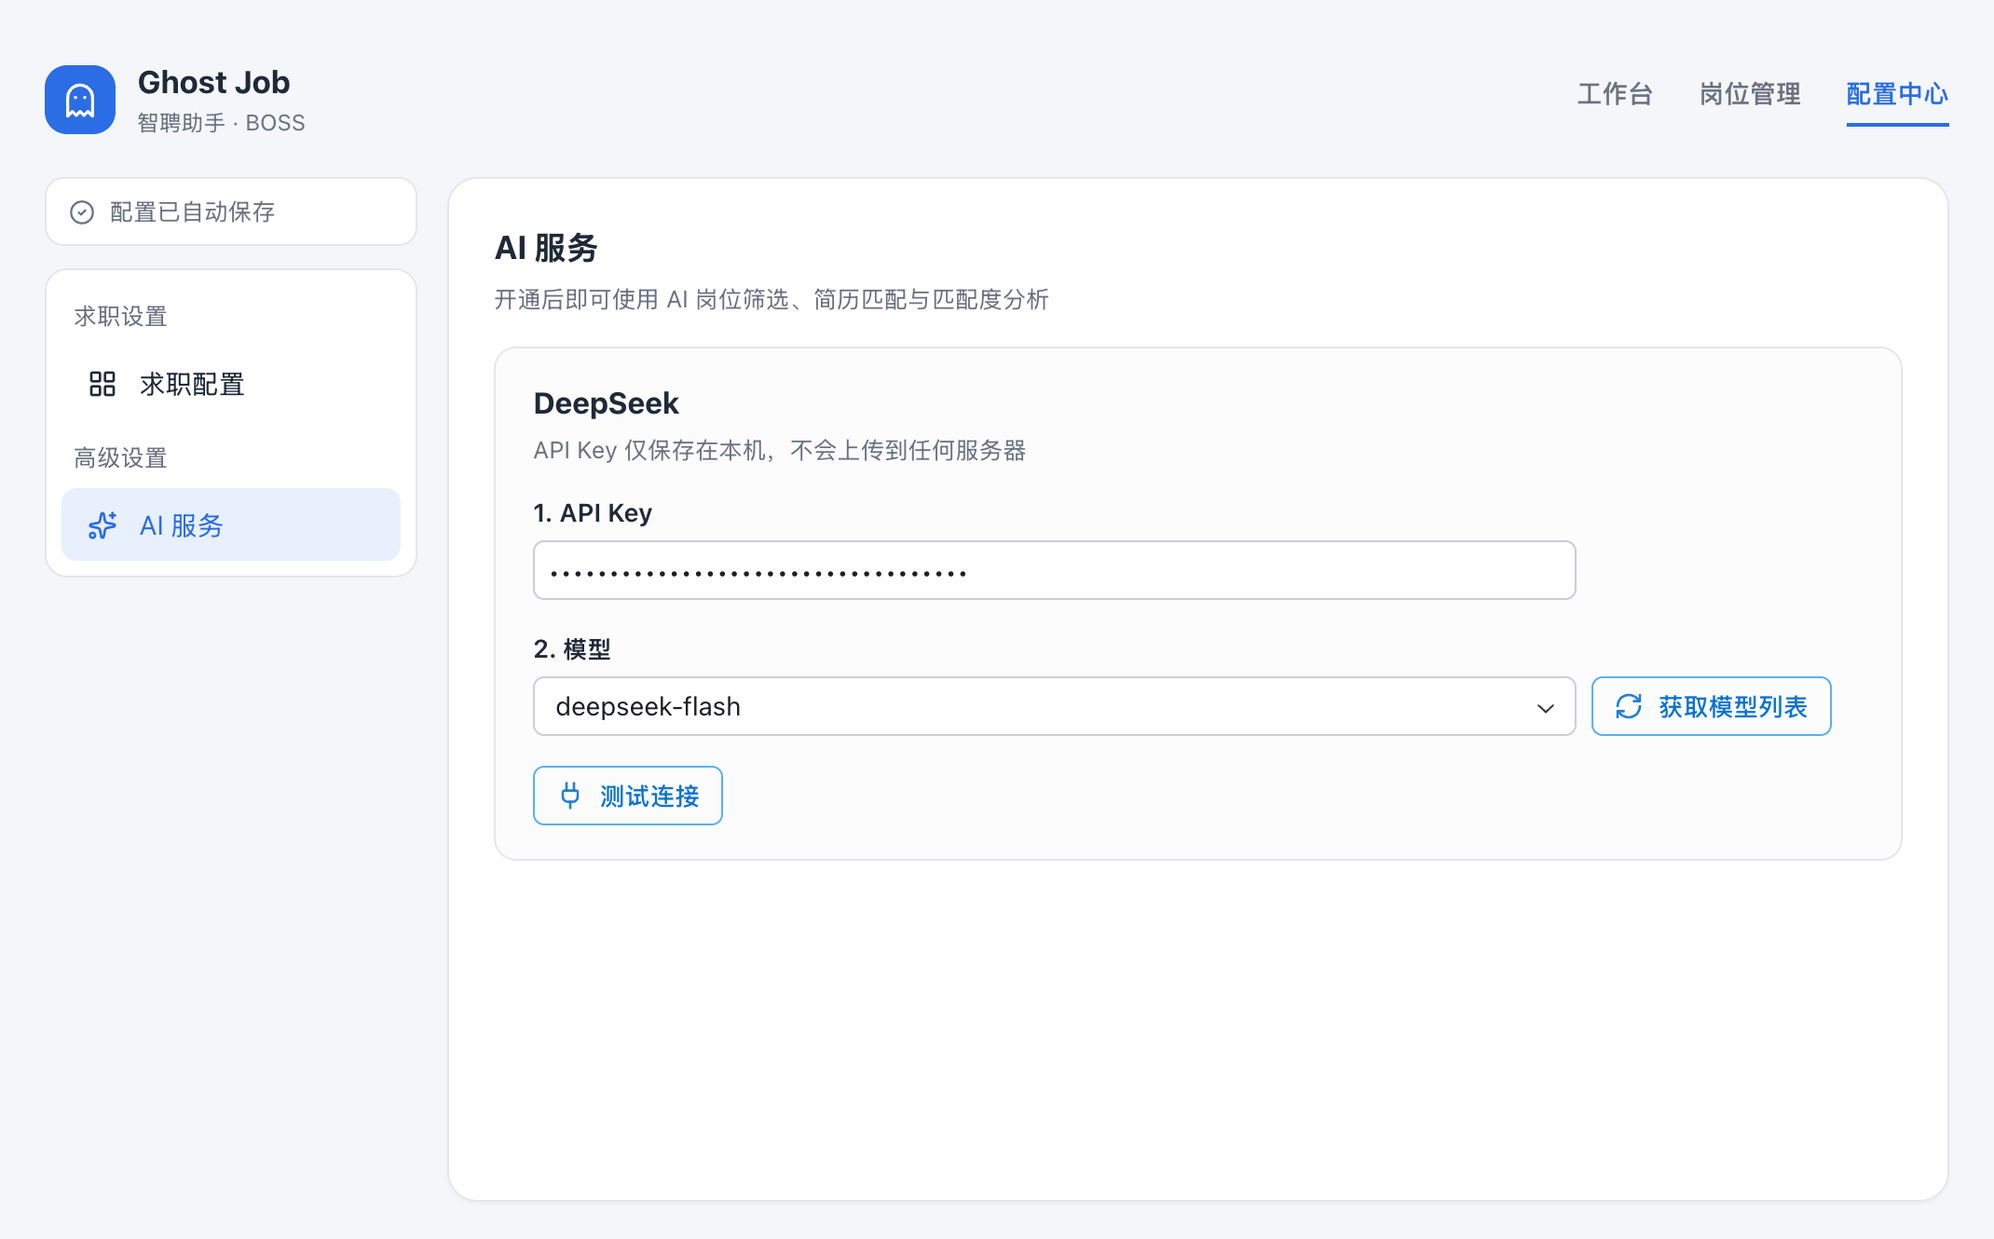
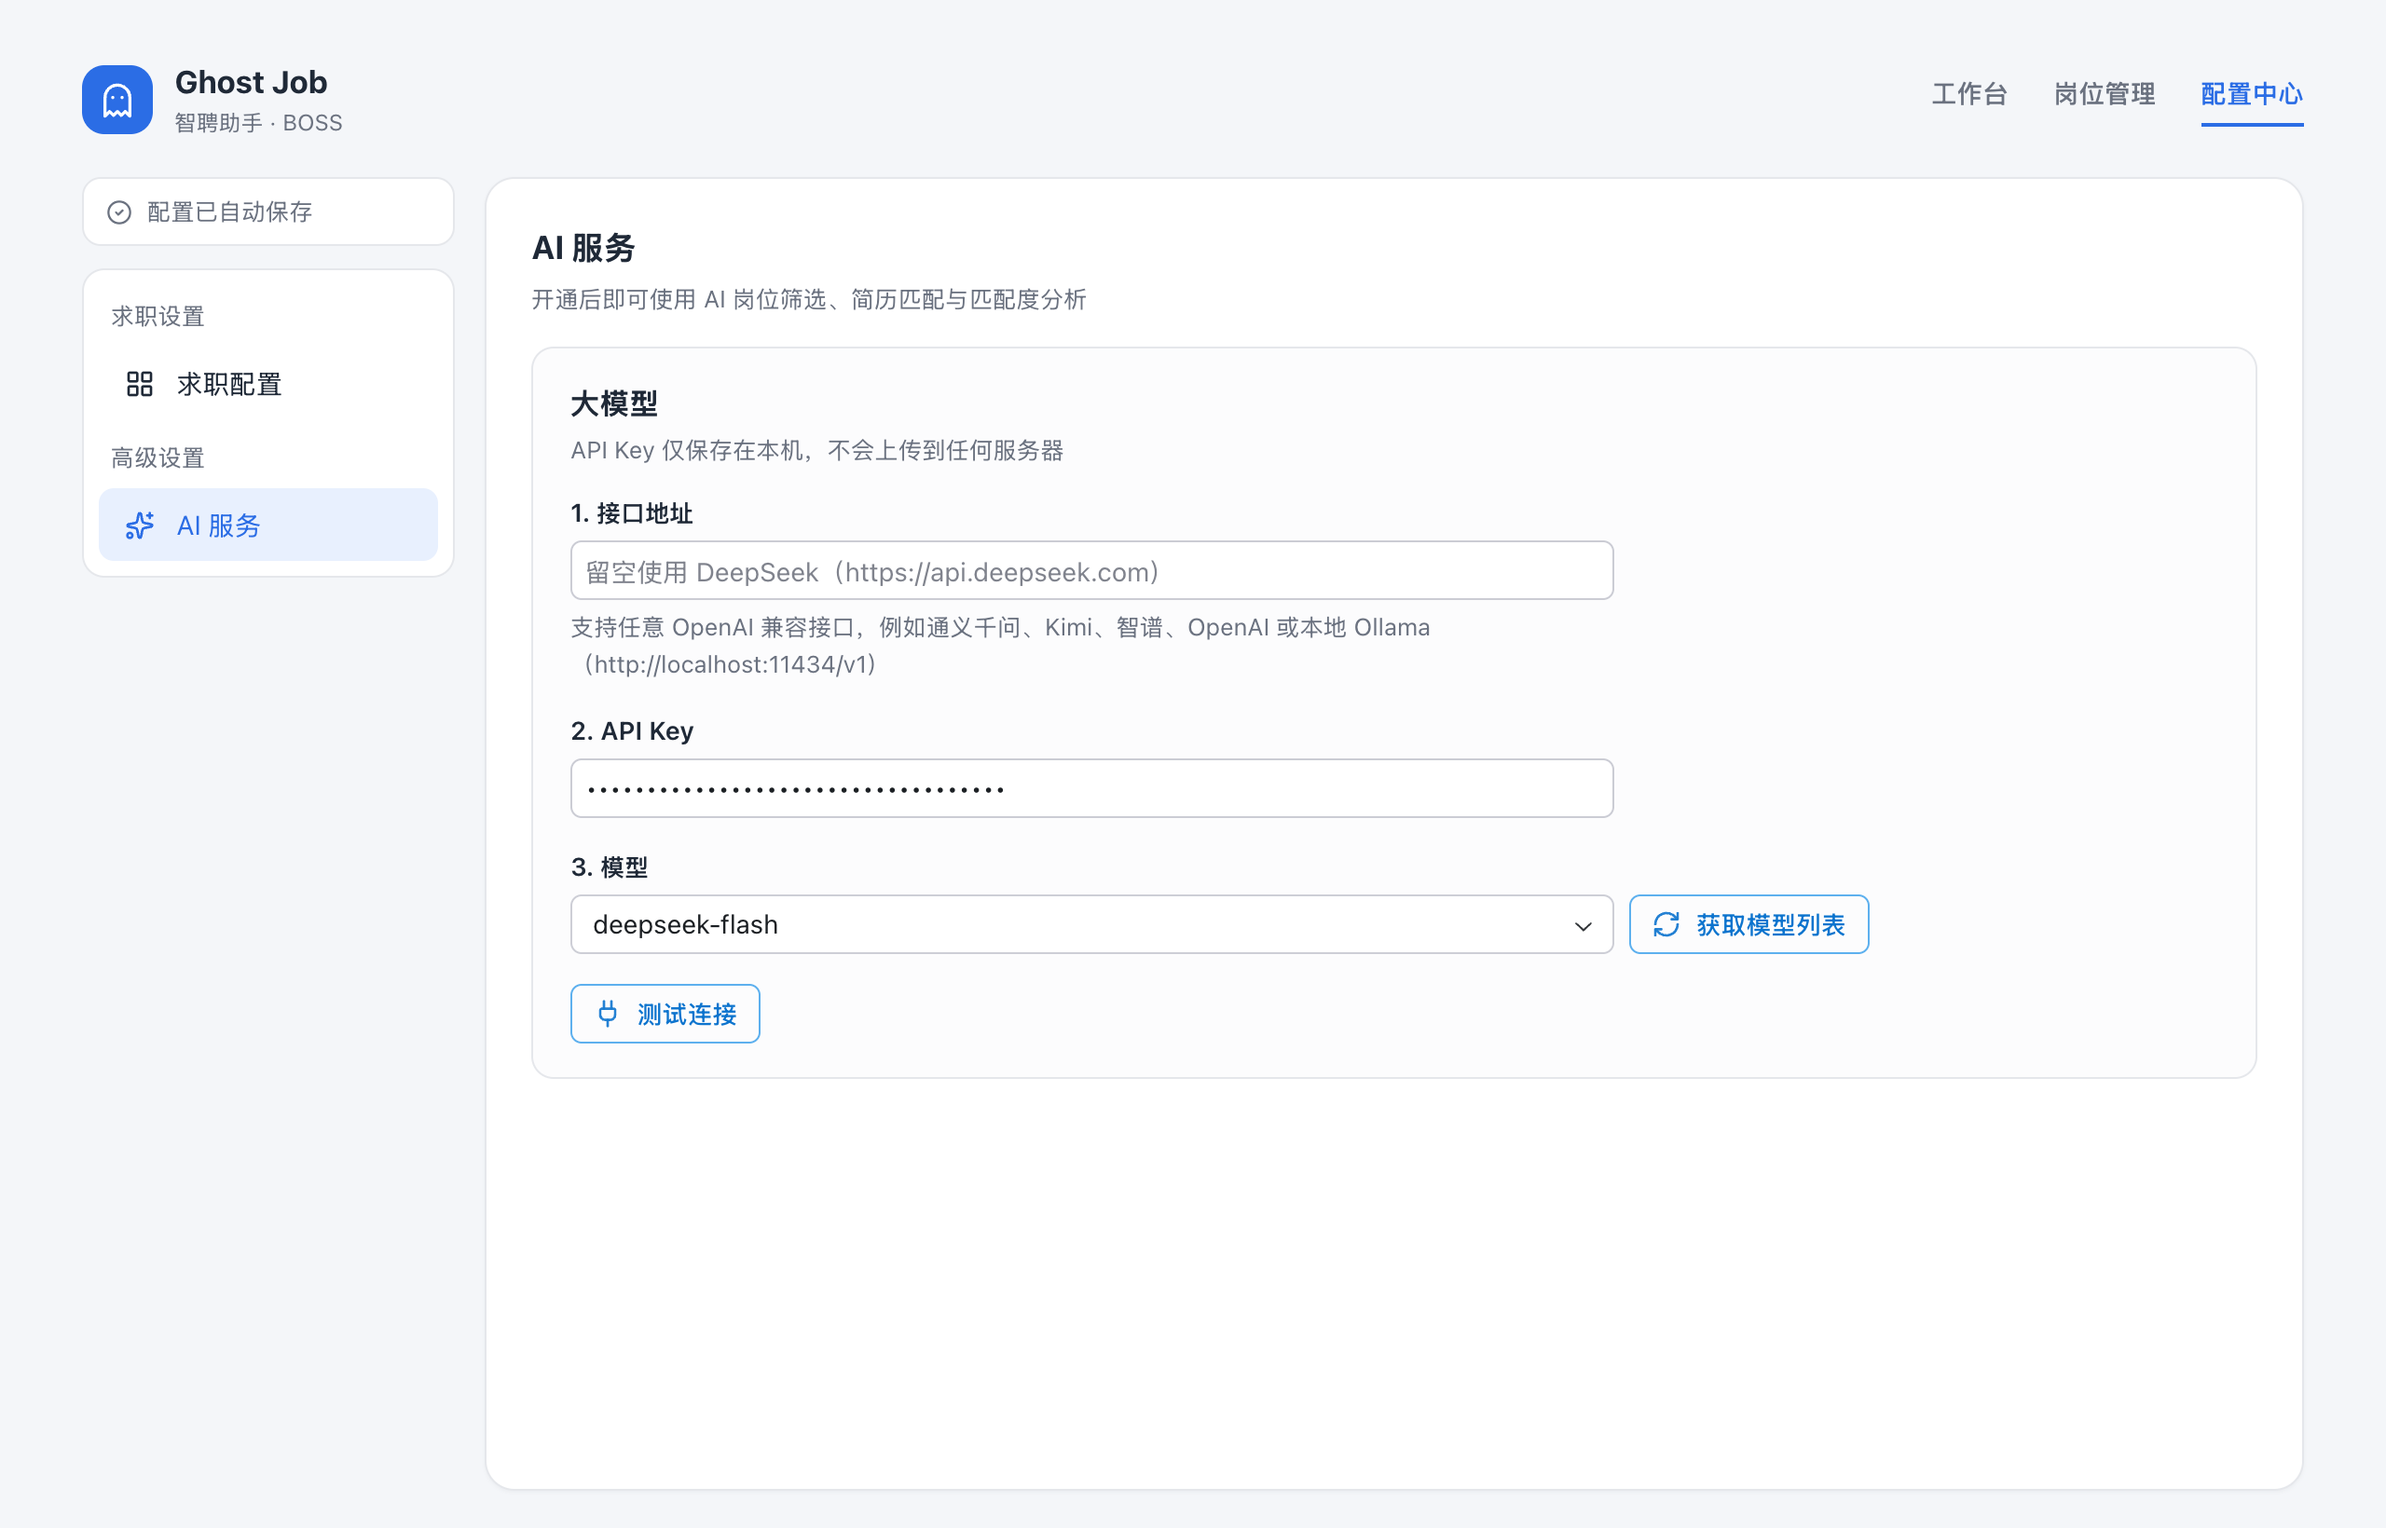
feat: AI 服务支持自定义接口地址，默认 DeepSeek，可接入任意 OpenAI 兼容服务

diff --git a/job/ui/state/llm.py b/job/ui/state/llm.py
@@ -1,4 +1,4 @@
-"""配置中心「大模型」：填写 API Key → 拉取最新模型 → 选择模型。"""
+"""配置中心「AI 服务」：接口地址（默认 DeepSeek）→ API Key → 拉取最新模型 → 选择模型。"""
 
 from __future__ import annotations
 
@@ -20,6 +20,7 @@ _SAMPLE_JOB = Job(
 
 
 class LlmState(rx.State):
+    base_url: str = ""
     api_key: str = ""
     model: str = ""
     model_options: list[str] = rx.field(default_factory=list)
@@ -28,7 +29,10 @@ class LlmState(rx.State):
 
     def _settings(self) -> LlmSettings:
         return LlmSettings(
-            api_key=self.api_key, model=self.model, models=self.model_options
+            base_url=self.base_url,
+            api_key=self.api_key,
+            model=self.model,
+            models=self.model_options,
         )
 
     @rx.var
@@ -40,9 +44,20 @@ class LlmState(rx.State):
     def on_load(self):
         init_db()
         settings = LlmSettings.load()
+        self.base_url = settings.base_url
         self.api_key = settings.api_key
         self.model = settings.model
         self.model_options = settings.models
+
+    @rx.event
+    def set_base_url(self, value: str):
+        """换服务后旧模型列表不再适用，清空待重新获取。"""
+        if value.strip() == self.base_url.strip():
+            return
+        self.base_url = value
+        self.model = ""
+        self.model_options = []
+        self._settings().save()
 
     @rx.event
     def set_api_key(self, value: str):
@@ -56,7 +71,7 @@ class LlmState(rx.State):
 
     @rx.event(background=True)
     async def fetch_models(self):
-        """用填写的 Key 拉取 DeepSeek 最新模型列表。"""
+        """用填写的接口地址和 Key 拉取最新模型列表。"""
         async with self:
             settings = self._settings()
             if not settings.api_key:
@@ -67,7 +82,7 @@ class LlmState(rx.State):
         except APIError as exc:
             async with self:
                 self.action = ""
-            return rx.toast.error(f"获取失败，请检查 API Key：{exc.message}")
+            return rx.toast.error(f"获取失败，请检查接口地址和 API Key：{exc.message}")
         async with self:
             self.action = ""
             if models:
@@ -91,7 +106,7 @@ class LlmState(rx.State):
         except AgentRunError as exc:
             async with self:
                 self.action = ""
-            return rx.toast.error(f"连接失败，请检查 API Key 和模型：{exc}")
+            return rx.toast.error(f"连接失败，请检查接口地址、API Key 和模型：{exc}")
         async with self:
             self.action = ""
         return rx.toast.success("连接成功，AI 服务可以正常使用")

diff --git a/job/ui/pages/config.py b/job/ui/pages/config.py
@@ -6,6 +6,7 @@ from typing import Any, ClassVar
 
 import reflex as rx
 
+from job.models.setting import LlmSettings
 from job.ui.components.form import field_label, form_title, switch_card
 from job.ui.components.header import site_header
 from job.ui.components.layout import page_root
@@ -871,27 +872,44 @@ class ConfigPage:
 
     @classmethod
     def _llm_panel(cls) -> rx.Component:
-        """大模型：DeepSeek API Key、模型与连接测试。"""
+        """大模型：接口地址（默认 DeepSeek）、API Key、模型与连接测试。"""
         return rx.vstack(
             cls._panel_title(
                 "AI 服务", "开通后即可使用 AI 岗位筛选、简历匹配与匹配度分析"
             ),
             cls._section(
-                "DeepSeek",
+                "大模型",
                 rx.vstack(
                     rx.box(
-                        cls._field_label("1. API Key"),
+                        cls._field_label("1. 接口地址"),
+                        rx.input(
+                            value=LlmState.base_url,
+                            on_change=LlmState.set_base_url.debounce(500),
+                            placeholder=f"留空使用 DeepSeek（{LlmSettings.DEFAULT_BASE_URL}）",
+                            width="100%",
+                        ),
+                        rx.text(
+                            "支持任意 OpenAI 兼容接口，例如通义千问、Kimi、智谱、"
+                            "OpenAI 或本地 Ollama（http://localhost:11434/v1）",
+                            font_size="0.8em",
+                            color=MUTED,
+                            margin_top="0.4em",
+                        ),
+                        width="100%",
+                    ),
+                    rx.box(
+                        cls._field_label("2. API Key"),
                         rx.input(
                             value=LlmState.api_key,
                             on_change=LlmState.set_api_key.debounce(500),
                             type="password",
-                            placeholder="粘贴你的 DeepSeek API Key，以 sk- 开头",
+                            placeholder="粘贴该服务的 API Key，DeepSeek 以 sk- 开头",
                             width="100%",
                         ),
                         width="100%",
                     ),
                     rx.box(
-                        cls._field_label("2. 模型"),
+                        cls._field_label("3. 模型"),
                         rx.hstack(
                             rx.select(
                                 LlmState.model_options,

diff --git a/job/boss/review.py b/job/boss/review.py
@@ -1,4 +1,4 @@
-"""AI 岗位复核：关键词过滤通过后，让 DeepSeek 按岗位详情判断意图与简历技术是否匹配。"""
+"""AI 岗位复核：关键词过滤通过后，让大模型按岗位详情判断意图与简历技术是否匹配。"""
 
 from __future__ import annotations
 
@@ -9,7 +9,6 @@ from typing import TYPE_CHECKING, Any, ClassVar
 from pydantic import BaseModel, Field
 from pydantic_ai import Agent, PromptedOutput
 from pydantic_ai.models.openai import OpenAIChatModel, OpenAIChatModelSettings
-from pydantic_ai.providers.deepseek import DeepSeekProvider
 
 from job.models.setting import LlmSettings
 
@@ -33,7 +32,7 @@ class Verdict(BaseModel):
 
 
 class JobReviewer(BaseModel):
-    """用 Pydantic AI 调 DeepSeek 复核岗位；API Key 与模型来自配置中心「大模型」。
+    """用 Pydantic AI 调大模型复核岗位；接口地址、API Key 与模型来自配置中心「AI 服务」。
 
     两项复核可单独或同时开启，同时开启时一次调用判断：
     ``requirement`` 岗位意图（目标岗位要求），``resume`` 简历技术匹配。
@@ -93,15 +92,13 @@ class JobReviewer(BaseModel):
 
     @cached_property
     def agent(self) -> Agent[None, Verdict]:
-        """DeepSeek 复核 Agent。
+        """复核 Agent；服务由配置决定（默认 DeepSeek，也可是任意 OpenAI 兼容接口）。
 
         结论走提示词 JSON 输出而非工具调用：DeepSeek 思考模式拒绝强制 ``tool_choice``，
-        而 Pydantic AI 对不认识的模型名（如 ``deepseek-flash``）无法关闭思考。
+        而 Pydantic AI 对不认识的模型名（如 ``deepseek-flash``）无法关闭思考；
+        不少兼容接口也不支持工具调用。
         """
-        model = OpenAIChatModel(
-            self.llm.model,
-            provider=DeepSeekProvider(api_key=self.llm.api_key),
-        )
+        model = OpenAIChatModel(self.llm.model, provider=self.llm.provider)
         return Agent(
             model,
             output_type=PromptedOutput(Verdict),

diff --git a/job/models/setting.py b/job/models/setting.py
@@ -7,6 +7,7 @@ from typing import Any, ClassVar
 
 from pydantic import BaseModel, ConfigDict, field_validator
 from pydantic_ai.providers.deepseek import DeepSeekProvider
+from pydantic_ai.providers.openai import OpenAIProvider
 from sqlmodel import Field, SQLModel
 
 
@@ -38,13 +39,19 @@ class SettingRow(SQLModel, table=True):
 
 
 class LlmSettings(BaseModel):
-    """大模型配置：先填 API Key，再拉取可用模型并选择；存在设置表里。"""
+    """大模型配置：接口地址、API Key，再拉取可用模型并选择；存在设置表里。
+
+    接口地址为空时用 DeepSeek 官方服务，填写后按 OpenAI 兼容接口调用。
+    """
 
     model_config = ConfigDict(str_strip_whitespace=True)
 
     # 设置表里的键前缀
     PREFIX: ClassVar[str] = "llm_"
+    # 默认服务（接口地址留空时）
+    DEFAULT_BASE_URL: ClassVar[str] = "https://api.deepseek.com"
 
+    base_url: str = ""
     api_key: str = ""
     model: str = ""
     # 上次从 DeepSeek 拉到的可用模型
@@ -74,7 +81,14 @@ class LlmSettings(BaseModel):
         }
         SettingRow.put_many(data)
 
+    @property
+    def provider(self) -> DeepSeekProvider | OpenAIProvider:
+        """模型服务：接口地址为空用 DeepSeek，否则用 OpenAI 兼容接口。"""
+        if not self.base_url:
+            return DeepSeekProvider(api_key=self.api_key)
+        return OpenAIProvider(base_url=self.base_url, api_key=self.api_key)
+
     async def fetch_models(self) -> list[str]:
-        """用当前 API Key 拉取 DeepSeek 可用模型；失败时抛 ``openai.APIError``。"""
-        client = DeepSeekProvider(api_key=self.api_key).client
+        """拉取当前服务的可用模型；失败时抛 ``openai.APIError``。"""
+        client = self.provider.client
         return sorted([m.id async for m in client.models.list()])

diff --git a/tests/boss/test_review.py b/tests/boss/test_review.py
@@ -9,6 +9,8 @@ import pytest
 from pydantic_ai.exceptions import AgentRunError, ModelHTTPError
 from pydantic_ai.messages import ModelMessage, ModelResponse, TextPart
 from pydantic_ai.models.function import AgentInfo, FunctionModel
+from pydantic_ai.providers.deepseek import DeepSeekProvider
+from pydantic_ai.providers.openai import OpenAIProvider
 
 from job.boss.jobs import Job
 from job.boss.review import JobReviewer, Verdict
@@ -145,6 +147,17 @@ def test_api_error_raises():
 
 def test_api_key_is_trimmed():
     assert LlmSettings(api_key="  sk-1 \n").api_key == "sk-1"
+
+
+def test_provider_defaults_to_deepseek():
+    assert isinstance(LLM.provider, DeepSeekProvider)
+    assert str(LLM.provider.client.base_url).startswith(LlmSettings.DEFAULT_BASE_URL)
+
+
+def test_provider_uses_custom_base_url():
+    llm = LlmSettings(base_url=" http://localhost:11434/v1 ", api_key="k", model="qwen3")
+    assert isinstance(llm.provider, OpenAIProvider)
+    assert str(llm.provider.client.base_url) == "http://localhost:11434/v1/"
 
 
 def test_ready_needs_key_and_model():

diff --git a/tests/test_config_db.py b/tests/test_config_db.py
@@ -95,6 +95,7 @@ def test_llm_settings_save_and_load(tmp_db: Path):
     assert LlmSettings.load() == LlmSettings()
     LlmSettings(api_key="sk-1", model="deepseek-v4-pro").save()
     latest = LlmSettings(
+        base_url="https://api.moonshot.cn/v1",
         api_key="sk-2",
         model="deepseek-v4-pro",
         models=["deepseek-v4-flash", "deepseek-v4-pro"],

diff --git a/README.md b/README.md
@@ -57,15 +57,16 @@
 
    > 目前已在 Windows 10 / 11 和 macOS 上测试可正常使用；**不支持 Windows 7**；Linux 版本尚未完整测试。
 2. 安装 [Google Chrome](https://www.google.com/chrome/)（自动投递通过本机 Chrome 完成）
-3. 准备一个 [DeepSeek API Key](https://platform.deepseek.com/api_keys)
+3. 准备一个大模型 API Key，推荐 [DeepSeek](https://platform.deepseek.com/api_keys)；也可以用通义千问、Kimi、智谱、OpenAI 等任意 OpenAI 兼容服务，或本地 Ollama
 
 ### 第一步：开通 AI 服务
 
 打开 **配置中心 → AI 服务**：
 
-1. 粘贴 DeepSeek API Key
-2. 点击「获取模型列表」，选择一个模型
-3. 点击「测试连接」，看到「连接成功」即可
+1. 接口地址：使用 DeepSeek 时留空即可；使用其他服务时填写它的 OpenAI 兼容地址，例如本地 Ollama 填 `http://localhost:11434/v1`
+2. 粘贴对应服务的 API Key（本地 Ollama 可随意填写）
+3. 点击「获取模型列表」，选择一个模型
+4. 点击「测试连接」，看到「连接成功」即可
 
 ![AI 服务](assets/screenshots/config-ai.png)
 
